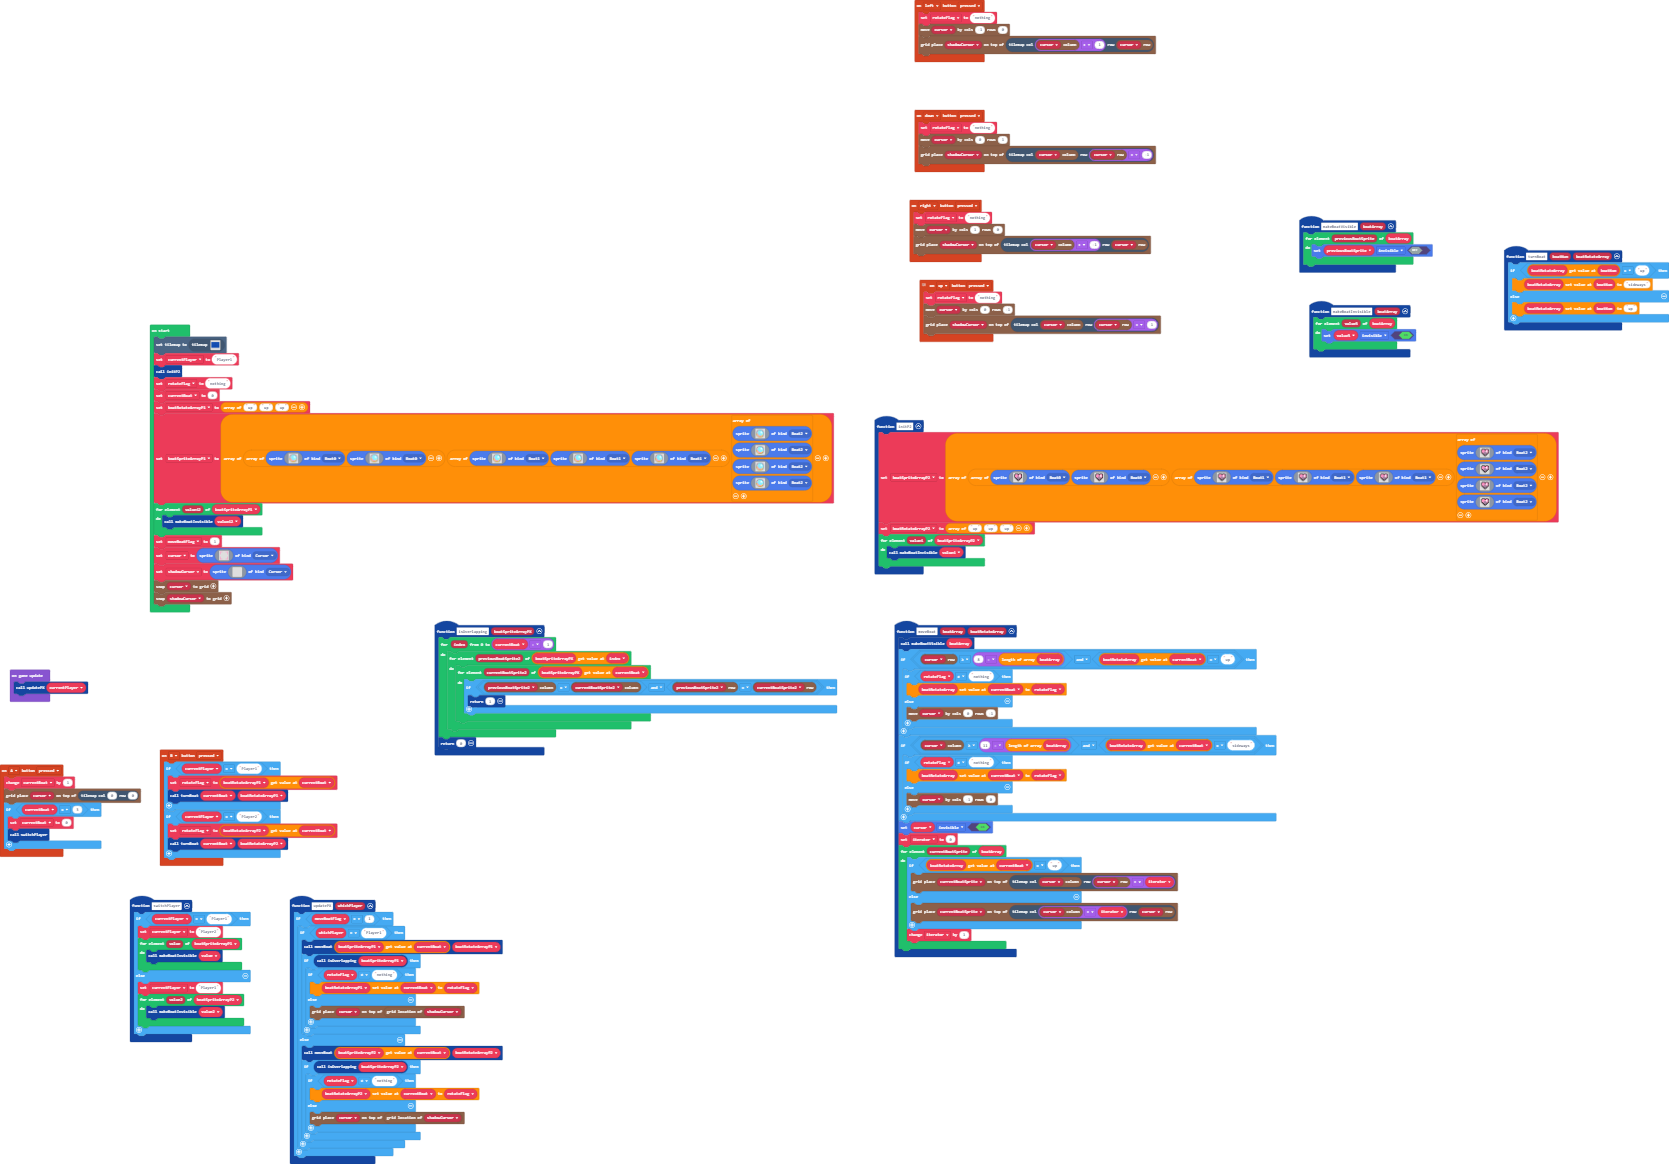
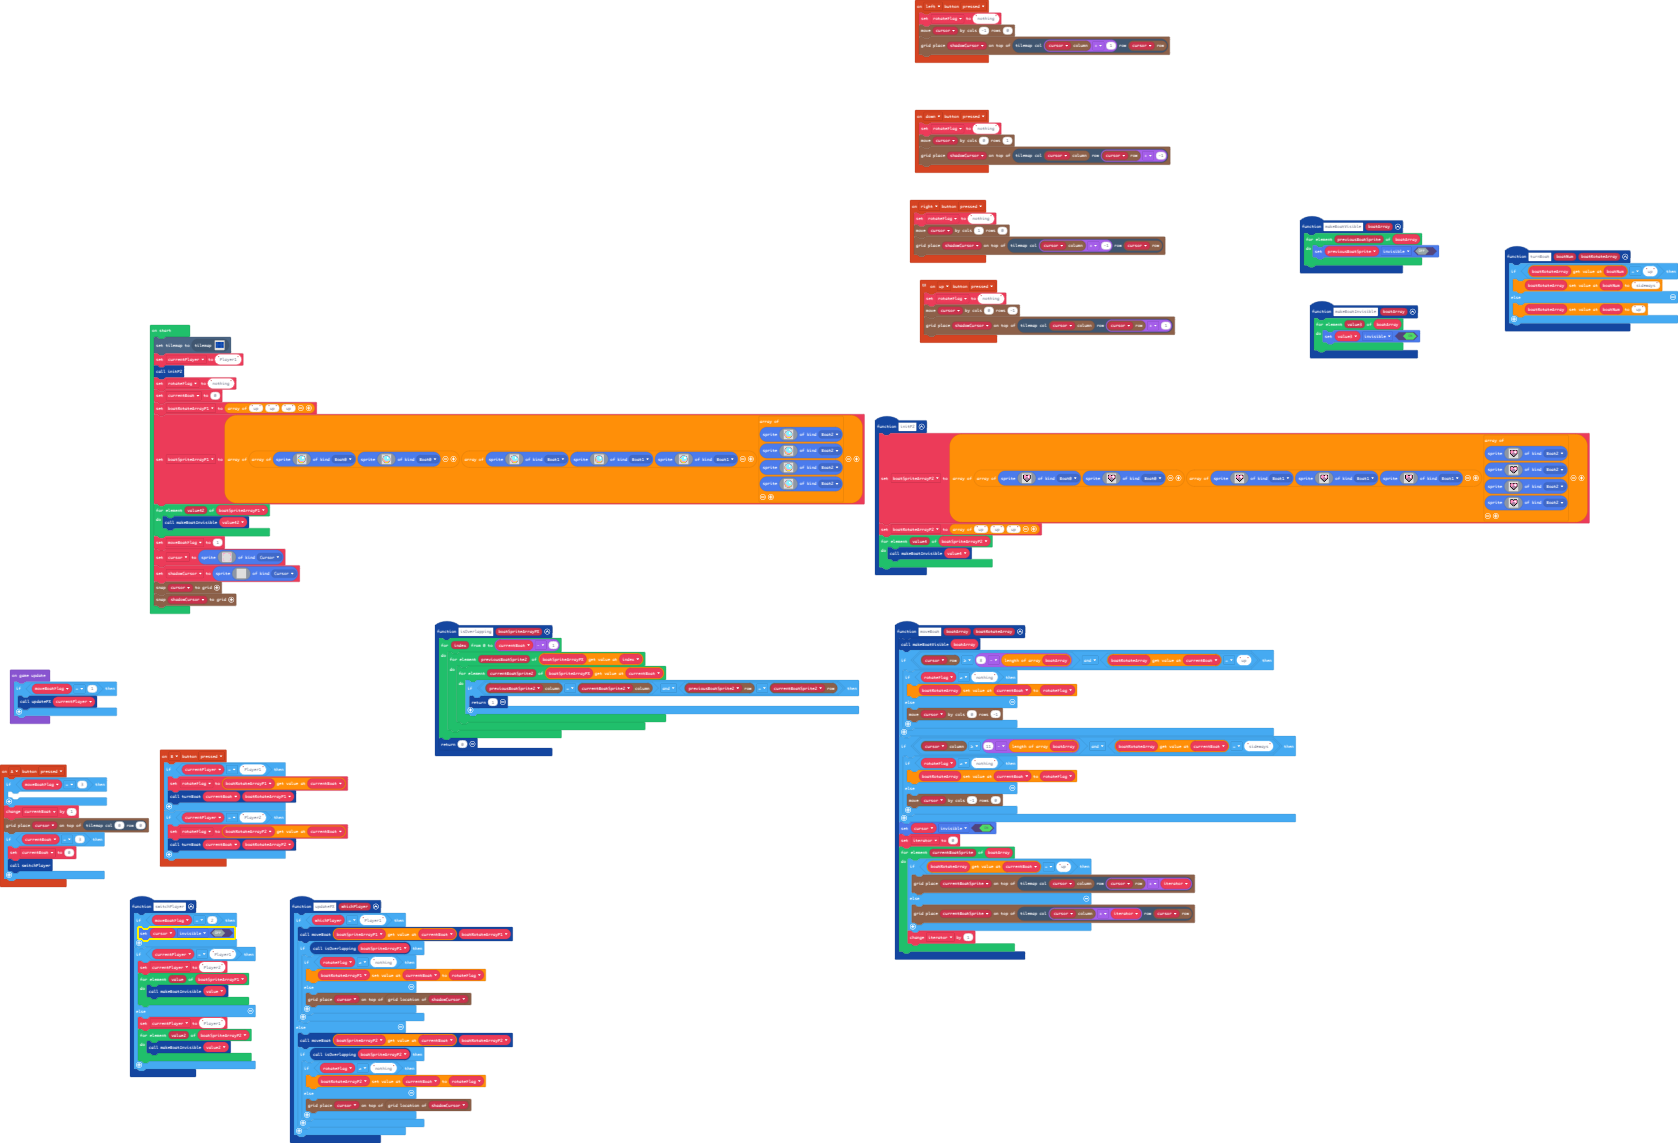
cursor turns on!

diff --git a/main.ts b/main.ts
@@ -11,24 +11,22 @@ controller.up.onEvent(ControllerButtonEvent.Pressed, function () {
     grid.place(shadowCursor, tiles.getTileLocation(grid.spriteCol(cursor), grid.spriteRow(cursor) + 1))
 })
 function updatePX (whichPlayer: string) {
-    if (moveBoatFlag == 1) {
-        if (whichPlayer == "Player1") {
-            moveBoat(boatSpriteArrayP1[currentBoat], boatRotateArrayP1)
-            if (isOverlapping(boatSpriteArrayP1)) {
-                if (rotateFlag != "nothing") {
-                    boatRotateArrayP1[currentBoat] = rotateFlag
-                } else {
-                    grid.place(cursor, grid.getLocation(shadowCursor))
-                }
+    if (whichPlayer == "Player1") {
+        moveBoat(boatSpriteArrayP1[currentBoat], boatRotateArrayP1)
+        if (isOverlapping(boatSpriteArrayP1)) {
+            if (rotateFlag != "nothing") {
+                boatRotateArrayP1[currentBoat] = rotateFlag
+            } else {
+                grid.place(cursor, grid.getLocation(shadowCursor))
             }
-        } else {
-            moveBoat(boatSpriteArrayP2[currentBoat], boatRotateArrayP2)
-            if (isOverlapping(boatSpriteArrayP2)) {
-                if (rotateFlag != "nothing") {
-                    boatRotateArrayP2[currentBoat] = rotateFlag
-                } else {
-                    grid.place(cursor, grid.getLocation(shadowCursor))
-                }
+        }
+    } else {
+        moveBoat(boatSpriteArrayP2[currentBoat], boatRotateArrayP2)
+        if (isOverlapping(boatSpriteArrayP2)) {
+            if (rotateFlag != "nothing") {
+                boatRotateArrayP2[currentBoat] = rotateFlag
+            } else {
+                grid.place(cursor, grid.getLocation(shadowCursor))
             }
         }
     }
@@ -49,6 +47,9 @@ function makeBoatVisible (boatArray: Sprite[]) {
     }
 }
 controller.A.onEvent(ControllerButtonEvent.Pressed, function () {
+    if (moveBoatFlag == 3) {
+    	
+    }
     currentBoat += 1
     grid.place(cursor, tiles.getTileLocation(0, 0))
     if (currentBoat == 3) {
@@ -62,6 +63,9 @@ controller.left.onEvent(ControllerButtonEvent.Pressed, function () {
     grid.place(shadowCursor, tiles.getTileLocation(grid.spriteCol(cursor) + 1, grid.spriteRow(cursor)))
 })
 function switchPlayer () {
+    if (moveBoatFlag == 2) {
+        cursor.setFlag(SpriteFlag.Invisible, false)
+    }
     if (currentPlayer == "Player1") {
         currentPlayer = "Player2"
         for (let value of boatSpriteArrayP1) {
@@ -527,5 +531,7 @@ shadowCursor = sprites.create(img`
 grid.snap(cursor)
 grid.snap(shadowCursor)
 game.onUpdate(function () {
-    updatePX(currentPlayer)
+    if (moveBoatFlag == 1) {
+        updatePX(currentPlayer)
+    }
 })
